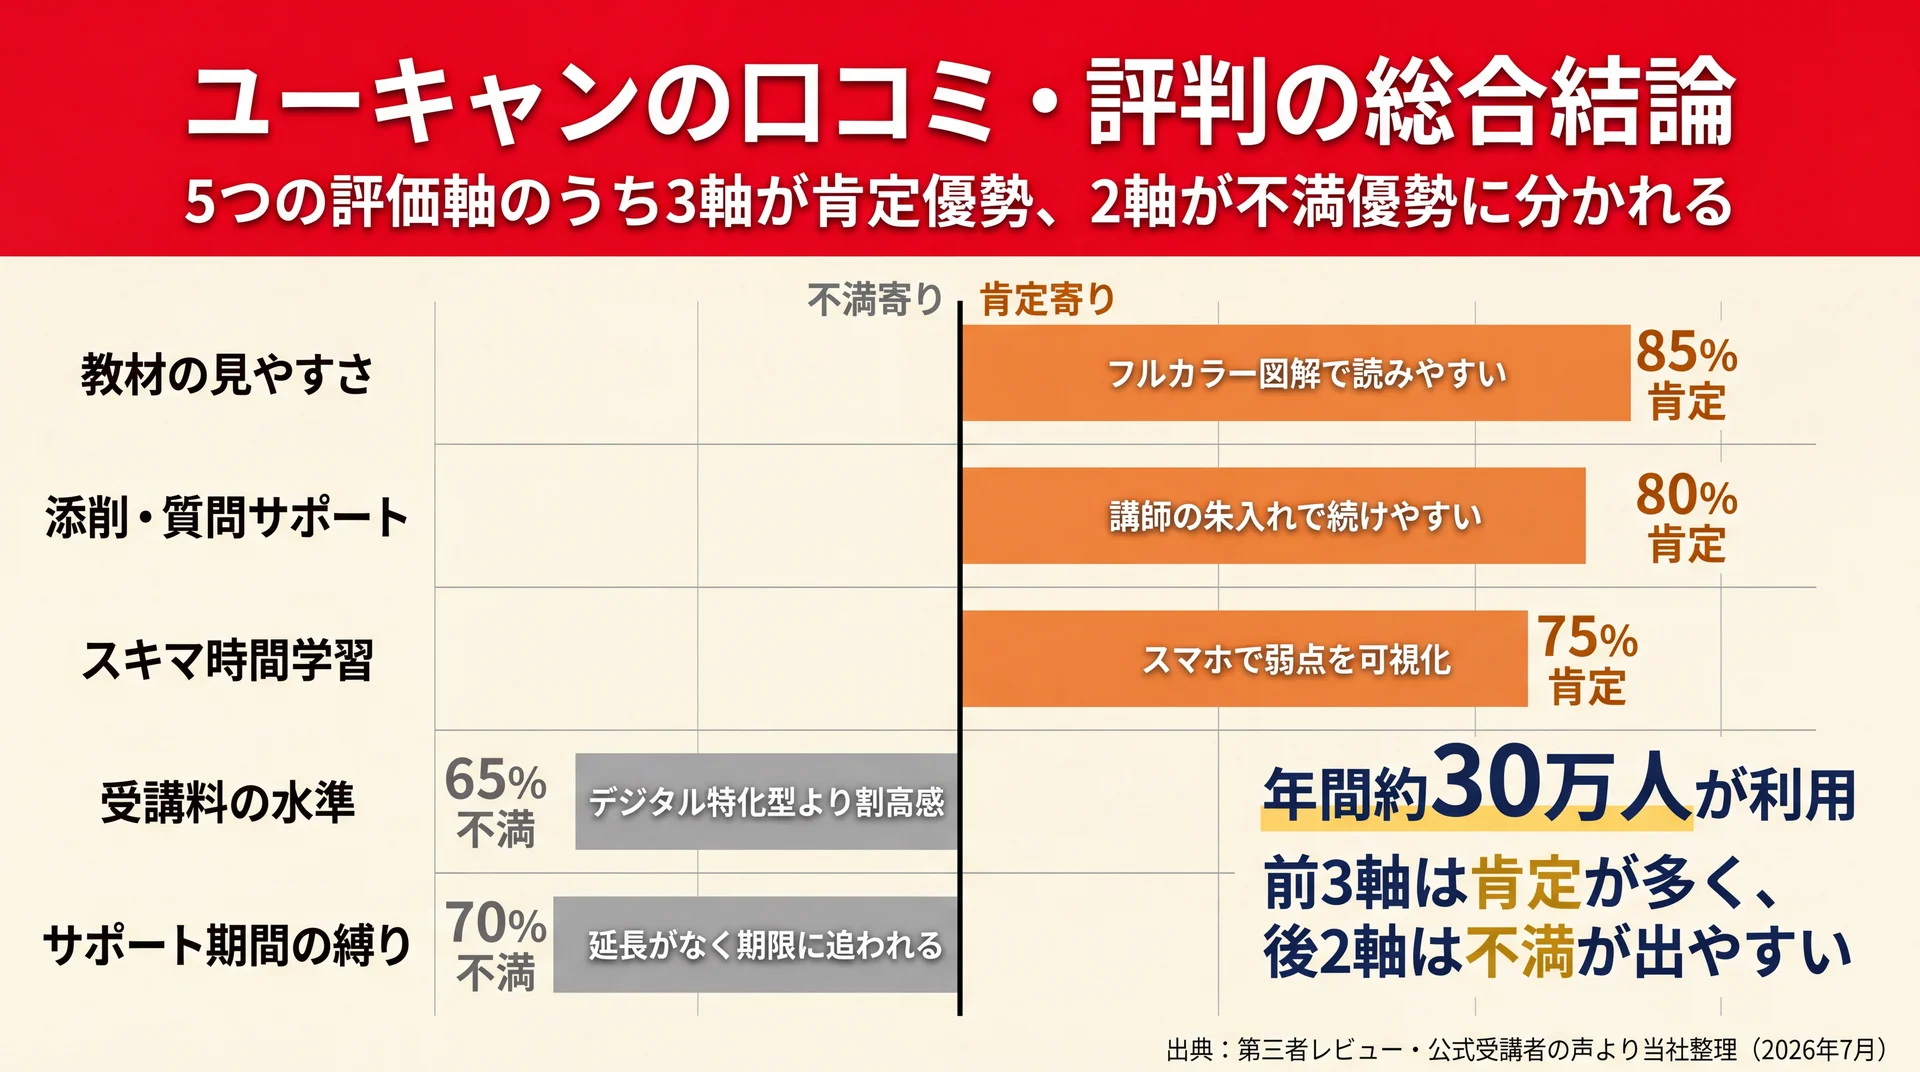
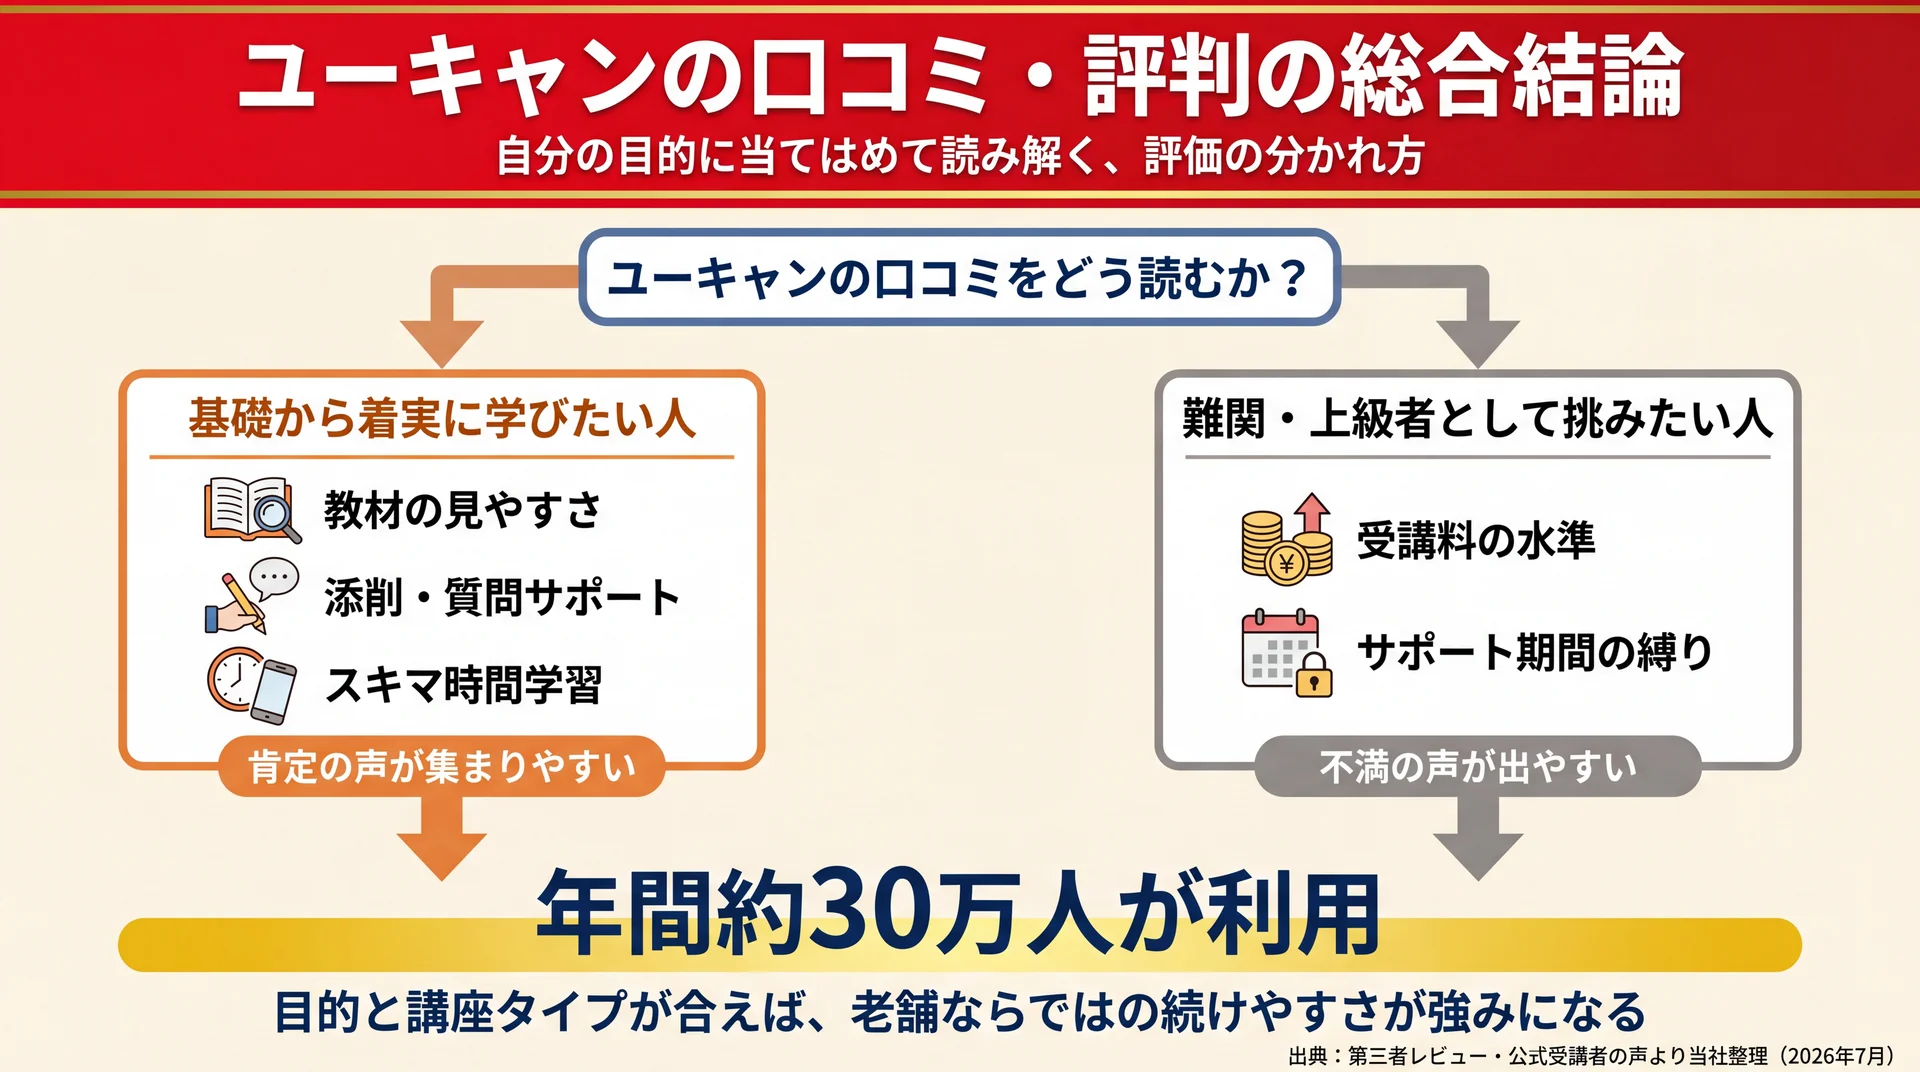
publish: ucan-reviews

diff --git a/2026/07/ucan-reviews.html b/2026/07/ucan-reviews.html
@@ -61,11 +61,11 @@
 <!-- /wp:buttons -->
 </div>
 <!-- /wp:group --><h2 style="font-size:24px; font-weight:600; margin:32px 0 16px; padding-bottom:8px; border-bottom:1px solid #eaeef2; line-height:1.3;">ユーキャンの口コミ・評判の総合結論</h2>
-<p style="margin:14px 0; line-height:1.7;"><img src="https://shun-toda.github.io/html-publish/2026/07/ucan-reviews/h2_01_%E7%B7%8F%E5%90%88%E7%B5%90%E8%AB%96.webp" alt="教材・添削・スキマ学習の3軸が肯定優勢、受講料とサポート期間の2軸が不満優勢と示したユーキャン評判の全体像図" loading="lazy" style="max-width:100%; height:auto; display:block; margin:16px auto; border-radius:6px;" /><br><em>5つの評価軸の肯定/不満の傾きを整理（出典: 第三者レビュー・公式受講者の声を基に当社整理・2026年7月時点）</em></p>
+<p style="margin:14px 0; line-height:1.7;"><img src="https://shun-toda.github.io/html-publish/2026/07/ucan-reviews/h2_01_%E7%B7%8F%E5%90%88%E7%B5%90%E8%AB%96.webp" alt="「基礎から着実に学びたい人」か「難関・上級者として挑みたい人」かで自分に合う使い方を診断する分岐フロー図（年間約30万人が利用）" loading="lazy" style="max-width:100%; height:auto; display:block; margin:16px auto; border-radius:6px;" /><br><em>口コミの賛否を自分の目的に当てはめて判断する自己診断フロー（第三者レビュー・公式受講者の声をもとに当社整理・2026年7月時点）</em></p>
 <p style="margin:14px 0; line-height:1.7;">ユーキャンの口コミは、「教材の分かりやすさと添削で初学者が続けやすい」という肯定と、「料金が割高で質問対応が遅い」という不満に大きく分かれます。年間約30万人が利用する老舗の通信講座で、賛否はあるものの初学者の入りやすさは一貫して評価されています（<a href="https://www.u-can.co.jp/company/business.html" style="color:#0969da; text-decoration:none; border-bottom:1px solid #eaeef2;">ユーキャンの講座事業</a>、2026年7月時点）。まずは評価が分かれる理由と、自分の目的との相性を先に押さえるのが近道です。</p>
 <h3 style="font-size:20px; font-weight:600; margin:24px 0 12px; line-height:1.3;">口コミからわかった評価の全体像</h3>
 <p style="margin:14px 0; line-height:1.7;">第三者のレビューサイトや公式の受講者の声を横断すると、評価の軸はおおむね5つに集約されます。教材の見やすさ、添削・質問サポート、スキマ時間での学習しやすさ、受講料の水準、そしてサポート期間の縛りです。前の3つは肯定が多く、後の2つは不満が出やすい論点です。</p>
-<p style="margin:14px 0; line-height:1.7;">同じ講座でも「基礎から入れて助かった」という声と「基礎に寄りすぎて物足りない」という声が併存します。これは矛盾ではなく、受講者の目的やレベルの違いが評価の差になって表れているだけです。だから口コミを読むときは、星の数の平均よりも「どんな人がどの講座で、何を良い・悪いと言っているか」を見るほうが役立ちます。なお、今回確認できた第三者の口コミは特定のレビューサイトに集中しており、範囲は限られる点は先にお断りしておきます。</p>
+<p style="margin:14px 0; line-height:1.7;">同じ講座でも「基礎から入れて助かった」という声と「基礎に寄りすぎて物足りない」という声が併存します。これは矛盾ではなく、受講者の目的やレベルの違いが評価の差になって表れているだけです。そのため口コミを読むときは、星の数の平均よりも「どんな人がどの講座で、何を良い・悪いと言っているか」を見るほうが役立ちます。なお、今回確認できた口コミは第三者レビューが特定のサイトに集中しており、範囲が限られる点は先にお断りしておきます。</p>
 <h3 style="font-size:20px; font-weight:600; margin:24px 0 12px; line-height:1.3;">論点別に見た「良い声・気になる声」の対照</h3>
 <p style="margin:14px 0; line-height:1.7;">同じ論点でも賞賛と不満が併存する構造を、1つの表に整理しました。</p>
 <div style="overflow-x:auto; margin:18px 0;"><table style="border-collapse:collapse; width:100%; font-size:14px;">
@@ -103,23 +103,20 @@
 </tr>
 </tbody></table></div>
 <p style="margin:14px 0; line-height:1.7;"><em>第三者レビュー掲載の受講者の声をもとに当社整理（2026年7月時点）</em></p>
-<p style="margin:14px 0; line-height:1.7;">この対照表からわかるのは、良い声と気になる声が別々の講座で出ているのではなく、多くが同じ論点の裏表だということです。当社の講座は「合格に必要な範囲へ絞ったフルカラー教材」を設計思想にしているため、初学者には分かりやすさとして働き、難関の上位得点を狙う人には物足りなさとして映ります。だから読者は、自分が「基礎から確実に」を求めるのか「難関で高得点まで」を求めるのかを最初に決めておくと、口コミの受け取り方がぶれません。</p>
+<p style="margin:14px 0; line-height:1.7;">この対照表からわかるのは、良い声と気になる声が別々の講座で出ているのではなく、多くが同じ論点の裏表だということです。当社の講座は「合格に必要な範囲へ絞ったフルカラー教材」を設計思想にしているため、初学者には分かりやすさとして働き、難関の上位得点を狙う人には物足りなさとして映ります。だから、自分が「基礎から確実に」を求めるのか「難関で高得点まで」を求めるのかを最初に決めておくと、口コミの受け取り方がぶれません。</p>
 <h2 style="font-size:24px; font-weight:600; margin:32px 0 16px; padding-bottom:8px; border-bottom:1px solid #eaeef2; line-height:1.3;">良い口コミ・評判でわかったユーキャンの強み</h2>
-<p style="margin:14px 0; line-height:1.7;"><img src="https://shun-toda.github.io/html-publish/2026/07/ucan-reviews/h2_02_%E5%BC%B7%E3%81%BF.webp" alt="教材の分かりやすさ・添削サポート・スキマ時間学習の3つを初学者の完走を支える強みとして整理した図（約140講座・年間約30万人）" loading="lazy" style="max-width:100%; height:auto; display:block; margin:16px auto; border-radius:6px;" /><br><em>初学者の完走を後押しする3つの強みと実績（出典: ユーキャンの講座事業を基に当社作成）</em></p>
+<p style="margin:14px 0; line-height:1.7;"><img src="https://shun-toda.github.io/html-publish/2026/07/ucan-reviews/h2_02_%E5%BC%B7%E3%81%BF.webp" alt="教材の分かりやすさ・添削サポート・スキマ時間学習の3つを初学者の完走を支える強みとして整理した図（約140講座・年間約30万人）" loading="lazy" style="max-width:100%; height:auto; display:block; margin:16px auto; border-radius:6px;" /><br><em>初学者の完走を後押しする3つの強みと実績（当社の事業概要の公開情報をもとに作成）</em></p>
 <p style="margin:14px 0; line-height:1.7;">良い口コミで繰り返し挙がる強みは、「教材の分かりやすさ」「添削・質問サポート」「スキマ時間で学べる講座数の幅」の3点です。とくに資格学習が初めての人ほど、独学のつまずきをこの3点が補う形で評価されています。当社の講座はこの初学者の続けやすさに最適化しており、口コミの傾向とも一致します。</p>
 <h3 style="font-size:20px; font-weight:600; margin:24px 0 12px; line-height:1.3;">教材が分かりやすいという声</h3>
-<p style="margin:14px 0; line-height:1.7;">最も多い肯定は、フルカラーのテキストが図解やイラストで理解を助けるという点です。文章だけでは頭に入りにくい内容も、色分けと図で要点をつかめるため、知識ゼロからでも読み進めやすいという評価が中心です。当社の教材は合格に必要な範囲へ絞って薄く作っており、「分厚い専門書で挫折する」典型を避ける狙いがあります。</p>
-<p style="margin:14px 0; line-height:1.7;">宅建士講座を受けた50代の利用者からは、解説内容にムラがなく充実していて、時間に余裕がなくても隙間時間で基礎を固められたという声が公式サイトに寄せられています（<a href="https://www.u-can.co.jp/%E5%AE%85%E5%BB%BA/voice/" style="color:#0969da; text-decoration:none; border-bottom:1px solid #eaeef2;">公式サイト掲載の利用者の声</a>）。</p>
-<!-- R-EVIDENCE: R-06 --><p style="margin:14px 0; line-height:1.7;">この「基礎を固めやすい」という強みは、裏を返せば応用・難問への物足りなさにもつながります。だから教材の分かりやすさを重視する初学者ほど相性が良く、すでに実力があり上位得点を狙う人は過去問演習の追加を前提にすると失敗しにくくなります。</p>
+<p style="margin:14px 0; line-height:1.7;">多く挙がる肯定は、フルカラーのテキストが図解やイラストで理解を助けるという点です。文章だけでは頭に入りにくい内容も、色分けと図で要点をつかめるため、知識ゼロからでも読み進めやすいという評価が中心です。当社の教材は合格に必要な範囲へ絞って薄く作っており、「分厚い専門書で挫折する」典型を避ける狙いがあります。</p>
+<p style="margin:14px 0; line-height:1.7;">宅建士講座を受けた40代の利用者からは、解説内容にムラがなく充実していて、時間に余裕がなくても隙間時間で基礎を固められたという声が公式サイトに寄せられています（<a href="https://www.u-can.co.jp/%E5%AE%85%E5%BB%BA/voice/" style="color:#0969da; text-decoration:none; border-bottom:1px solid #eaeef2;">公式サイト掲載の利用者の声</a>）。</p>
+<!-- R-EVIDENCE: R-06 --><p style="margin:14px 0; line-height:1.7;">この「基礎を固めやすい」という強みは、裏を返せば応用・難問への物足りなさにもつながります。そのため教材の分かりやすさを重視する初学者ほど相性が良く、すでに実力があり上位得点を狙う人は過去問演習の追加を前提にすると失敗しにくくなります。</p>
 <h3 style="font-size:20px; font-weight:600; margin:24px 0 12px; line-height:1.3;">添削・質問サポートで続けやすいという声</h3>
-<p style="margin:14px 0; line-height:1.7;">2つ目の強みは、添削指導と質問対応です。提出課題に講師が朱を入れて返し、励ましやアドバイスを添えてくれる点が、モチベーション維持につながったという口コミが目立ちます。独学では得られない「見てくれる人がいる」感覚が、途中離脱を防ぐ働きをしています。</p>
-<blockquote style="border-left:4px solid #d0d7de; padding:6px 16px; margin:18px 0; color:#57606a; background:#f6f8fa;">
-<p style="margin:14px 0; line-height:1.7;">講座が多くて迷っても、チャットで丁寧に相談に乗ってくれて分割払いもありがたく、高卒認定は一回で合格できた——相談対応を評価する第三者レビューもあります（<a href="https://minhyo.jp/u-can" style="color:#0969da; text-decoration:none; border-bottom:1px solid #eaeef2;">受講者の声</a>）。</p>
-</blockquote>
-<!-- R-EVIDENCE: R-04 --><p style="margin:14px 0; line-height:1.7;">当社の講座は、この添削と質問サポートを学習の核に据えています。独学で続かなかった人ほど、第三者に見てもらえる仕組みの価値が大きく出ます。だから「一人だと続かない」自覚がある人は、教材の内容以上にサポートの有無で選ぶと後悔しにくくなります。</p>
+<p style="margin:14px 0; line-height:1.7;">2つ目の強みは、添削指導と質問対応です。提出課題に講師が朱を入れて返し、励ましやアドバイスを添えてくれる点が、モチベーション維持につながったという口コミが目立ちます。独学では得られない「見てくれる人がいる」感覚が、途中離脱を防ぐ働きをしています。相談対応が丁寧で続けやすいという評価も、第三者レビューで挙がる傾向です。</p>
+<p style="margin:14px 0; line-height:1.7;">当社の講座は、この添削と質問サポートを学習の核に据えています。独学で続かなかった人ほど、第三者に見てもらえる仕組みの価値が大きく出ます。だから「一人だと続かない」自覚がある人は、教材の内容以上にサポートの有無で選ぶと後悔しにくくなります。</p>
 <h3 style="font-size:20px; font-weight:600; margin:24px 0 12px; line-height:1.3;">スキマ時間学習と講座数の幅</h3>
 <p style="margin:14px 0; line-height:1.7;">3つ目は、スマホでテキストを読み、ミニテストや動画を使える学習環境と、講座ラインナップの幅です。通勤や家事の合間に学習時間や弱点が可視化されるため、忙しい社会人や子育て中の人でも進めやすいという声が集まります。当社は約140の講座を提供し、年間約30万人が利用しています（<a href="https://www.u-can.co.jp/company/business.html" style="color:#0969da; text-decoration:none; border-bottom:1px solid #eaeef2;">ユーキャンの講座事業</a>、2026年7月時点）。</p>
-<p style="margin:14px 0; line-height:1.7;">資格から趣味・実用まで幅広く揃うため、「まず何を学ぶか」から迷う人が目的に合わせて選べるのも強みです。医療事務や登録販売者のような就職に直結する資格から、ボールペン字や食・美容といった暮らしを豊かにする講座まで、同じ土台で選べます。だから、学びたい分野が固まっていない段階でも、複数講座を比べながら決められます。</p>
+<p style="margin:14px 0; line-height:1.7;">資格から趣味・実用まで幅広く揃うため、「まず何を学ぶか」から迷う人が目的に合わせて選べるのも強みです。医療事務や登録販売者のような就職に直結する資格から、ボールペン字や食・美容といった暮らしを豊かにする講座まで、同じ土台で選べます。学びたい分野が固まっていない段階でも、複数講座を比べながら決められます。</p>
 <p style="margin:14px 0; line-height:1.7;">スマホで進められる学習環境も、続けやすさに直結します。通勤中にテキストを読み、昼休みにミニテストを解く、といった細切れの学習でも進捗が記録されるため、机に向かう時間をまとめて取れない人ほど恩恵が大きくなります。</p>
 <h2 style="font-size:24px; font-weight:600; margin:32px 0 16px; padding-bottom:8px; border-bottom:1px solid #eaeef2; line-height:1.3;">気になる口コミ・評判と受講前に知るべき制約</h2>
 <p style="margin:14px 0; line-height:1.7;">気になる口コミは、「受講料が割高」「質問対応が遅くサポート期間に縛りがある」「教材が基礎寄りで物足りない」の3点に集約されます。いずれも講座の欠陥というより、料金設計とサポート設計を理解していれば回避・軽減できる制約です。受講前に条件を押さえておけば、後悔の多くは防げます。</p>
@@ -135,8 +132,8 @@
 <!-- R-EVIDENCE: R-01 --><p style="margin:14px 0; line-height:1.7;">当社の講座は、質問と添削を「サポート期間内の学習」を前提に設計しています。だからこそ、受講前に無理のない学習期間を見積もり、期間内に計画を組むことが添削サポートを活かす条件になります。長期の中断が起こりやすい事情がある人は、開始時期そのものを検討したほうが安全です。</p>
 <h3 style="font-size:20px; font-weight:600; margin:24px 0 12px; line-height:1.3;">教材が基礎寄りで物足りない場合</h3>
 <p style="margin:14px 0; line-height:1.7;">3つ目は、教材が合格範囲に絞られているため、難関試験や高得点狙いには問題の難易度が足りないという声です。基礎の分かりやすさと引き換えに、本番レベルの演習量が少ないと感じる人がいます。</p>
-<p style="margin:14px 0; line-height:1.7;">簿記の学習では、本番向けの問題が基礎レベルで実際の試験に届かず、日商公認の模擬試験を別途購入したという第三者レビューもあります（<a href="https://minhyo.jp/u-can" style="color:#0969da; text-decoration:none; border-bottom:1px solid #eaeef2;">受講者の声</a>）。</p>
-<!-- R-EVIDENCE: R-02 --><p style="margin:14px 0; line-height:1.7;">当社の教材は、初学者が挫折せず一通りを終えられることを優先しています。だから難関資格で上位得点まで目指す場合は、当社教材で基礎を固めたうえで市販の過去問・模試を足す使い方が現実的です。教材だけで完結すると考えると、難関では物足りなさが残ります。</p>
+<p style="margin:14px 0; line-height:1.7;">簿記の学習では、本番向けの問題が基礎レベルで実際の試験に届かず、日商公認の模擬試験を別途購入したという第三者レビューもありました。</p>
+<p style="margin:14px 0; line-height:1.7;">当社の教材は、初学者が挫折せず一通りを終えられることを優先しています。そのため難関資格で上位得点まで目指す場合は、当社教材で基礎を固めたうえで市販の過去問・模試を足す使い方が現実的です。教材だけで完結すると考えると、難関では物足りなさが残ります。</p>
 <h2 style="font-size:24px; font-weight:600; margin:32px 0 16px; padding-bottom:8px; border-bottom:1px solid #eaeef2; line-height:1.3;">「やめた方がいい・後悔」の声は何が原因か</h2>
 <p style="margin:14px 0; line-height:1.7;">「やめた方がいい」「後悔した」という声の多くは、講座内容そのものの欠陥ではなく、「サポート期間内に終わらず中断」「基礎教材と難関試験のギャップ」「実務系で前提知識が要る」の3つの原因に分けられます。原因を切り分ければ、自分に当てはまるかを事前に判断でき、対処もできます。ここが評判の核心です。</p>
 <h3 style="font-size:20px; font-weight:600; margin:24px 0 12px; line-height:1.3;">原因1: サポート期間内に終わらず中断した</h3>
@@ -144,10 +141,10 @@
 <p style="margin:14px 0; line-height:1.7;">これは講座の質の問題ではなく、学習計画とサポート設計のミスマッチです。当社は添削とスケジュール設計で継続を支える一方、期間の設定は明確にしています。だから、まとまった学習時間を確保できる時期に始め、余裕を持った期間の講座を選ぶことで、この原因は大きく減らせます。</p>
 <h3 style="font-size:20px; font-weight:600; margin:24px 0 12px; line-height:1.3;">原因2: 基礎教材と難関試験のギャップ</h3>
 <p style="margin:14px 0; line-height:1.7;">2つ目は、基礎に最適化された教材だけで難関試験に挑み、本番の難易度差に直面するパターンです。簿記の例のように「テキストは分かりやすいのに本試験は解けなかった」という声は、教材の性格と試験難易度のギャップから生まれます。</p>
-<p style="margin:14px 0; line-height:1.7;">当社の教材は初学者の完走を優先しているため、難関で高得点を狙うなら過去問・模試の追加が前提になります。だから、難易度の高い資格を受ける人は「ユーキャンで基礎、演習は別で補う」と最初から役割分担を決めておくと、後悔を避けられます。</p>
+<p style="margin:14px 0; line-height:1.7;">当社の教材は初学者の完走を優先しているため、難関で高得点を狙うなら過去問・模試の追加が前提になります。難易度の高い資格を受ける人は「ユーキャンで基礎、演習は別で補う」と最初から役割分担を決めておくと、後悔を避けられます。</p>
 <h3 style="font-size:20px; font-weight:600; margin:24px 0 12px; line-height:1.3;">原因3: 実務系で前提知識が要る</h3>
-<p style="margin:14px 0; line-height:1.7;">3つ目は、電気工事士のような実務系資格で、現場の道具や作業のイメージがないまま始めて質問すらできず止まるパターンです。第三者レビューでも、普段から仕事で携わっている人には勧められるが、まったくの初学者には向きにくいという指摘があります（<a href="https://minhyo.jp/u-can" style="color:#0969da; text-decoration:none; border-bottom:1px solid #eaeef2;">受講者の声</a>）。</p>
-<p style="margin:14px 0; line-height:1.7;">こうした資格は、通信教材だけで前提知識を補うのが難しい領域です。だから実務系に挑む初学者は、動画教材や現場経験の補完をあわせて計画すると、つまずきを減らせます。</p>
+<p style="margin:14px 0; line-height:1.7;">3つ目は、電気工事士のような実務系資格で、現場の道具や作業のイメージがないまま始めて質問すらできず止まるパターンです。第三者レビューでも、普段から仕事で携わっている人には勧められるが、まったくの初学者には向きにくいという指摘がありました。</p>
+<p style="margin:14px 0; line-height:1.7;">こうした資格は、通信教材だけで前提知識を補うのが難しい領域です。実務系に挑む初学者は、動画教材や現場経験の補完をあわせて計画すると、つまずきを減らせます。</p>
 <p style="margin:14px 0; line-height:1.7;"><strong>要点:</strong> 「やめた方がいい」の多くは中断・難易度ギャップ・前提知識の3原因に集約され、いずれも開始時期と補助教材の準備で対処できます。</p>
 <!-- wp:group {"style":{"border":{"radius":"16px","color":"#FAE3D8","style":"solid","width":"1px"},"spacing":{"padding":{"top":"24px","right":"20px","bottom":"24px","left":"20px"}}},"layout":{"type":"constrained"}} -->
 <div class="wp-block-group has-border-color" style="border-color:#FAE3D8;border-style:solid;border-width:1px;border-radius:16px;padding-top:24px;padding-right:20px;padding-bottom:24px;padding-left:20px">
@@ -164,7 +161,7 @@
 <!-- /wp:buttons -->
 </div>
 <!-- /wp:group --><h2 style="font-size:24px; font-weight:600; margin:32px 0 16px; padding-bottom:8px; border-bottom:1px solid #eaeef2; line-height:1.3;">講座タイプで割れるユーキャンの評価</h2>
-<p style="margin:14px 0; line-height:1.7;"><img src="https://shun-toda.github.io/html-publish/2026/07/ucan-reviews/h2_03_%E8%AC%9B%E5%BA%A7%E3%82%BF%E3%82%A4%E3%83%97_%E8%A9%95%E4%BE%A1.webp" alt="難易度と満足度の2軸で講座タイプを配置し、趣味・初学者資格は高評価、難関・実務系は補助教材前提と示したポジショニングマップ" loading="lazy" style="max-width:100%; height:auto; display:block; margin:16px auto; border-radius:6px;" /><br><em>講座タイプを難易度×単独満足度で配置し向き不向きを可視化（出典: 公式合格実績2015〜2024・第三者レビューを基に当社整理）</em></p>
+<p style="margin:14px 0; line-height:1.7;"><img src="https://shun-toda.github.io/html-publish/2026/07/ucan-reviews/h2_03_%E8%AC%9B%E5%BA%A7%E3%82%BF%E3%82%A4%E3%83%97_%E8%A9%95%E4%BE%A1.webp" alt="難易度と満足度の2軸で講座タイプを配置し、趣味・初学者資格は高評価、難関・実務系は補助教材前提と示したポジショニングマップ" loading="lazy" style="max-width:100%; height:auto; display:block; margin:16px auto; border-radius:6px;" /><br><em>講座タイプを難易度×単独満足度で配置し向き不向きを可視化（公式合格実績2015〜2024・第三者レビューをもとに当社整理）</em></p>
 <p style="margin:14px 0; line-height:1.7;">ユーキャンの口コミは、講座タイプによって評価が明確に割れます。趣味・実用や初学者向けの資格では「分かりやすい・続けられた」という高評価が集まりやすく、難関の国家資格や実務者の専門学習では「物足りない」という声が出やすい傾向です。この割れ方を知ると、平均評価に惑わされず自分向けかを判断できます。</p>
 <h3 style="font-size:20px; font-weight:600; margin:24px 0 12px; line-height:1.3;">講座タイプ×評価傾向のマトリクス</h3>
 <p style="margin:14px 0; line-height:1.7;">確認できた口コミを講座タイプ別に整理すると、評価の傾向がはっきり分かれます。</p>
@@ -198,15 +195,15 @@
 </tr>
 </tbody></table></div>
 <p style="margin:14px 0; line-height:1.7;"><em>第三者レビュー掲載の受講者の声をもとに当社整理（2026年7月時点）</em></p>
-<p style="margin:14px 0; line-height:1.7;">このマトリクスが示すのは、ユーキャンの評価は「良いか悪いか」ではなく「どの講座タイプで、どんな目的の人が使ったか」で決まるということです。当社の講座は初学者の完走に最適化しているため、上の2タイプで満足度が高く、下の2タイプでは使い方の工夫が要ります。だから読者は、自分が受けたい講座がどのタイプかを先に当てはめてから口コミを読むと、評価のブレに振り回されません。</p>
+<p style="margin:14px 0; line-height:1.7;">このマトリクスが示すのは、ユーキャンの評価は「良いか悪いか」ではなく「どの講座タイプで、どんな目的の人が使ったか」で決まるということです。当社の講座は初学者の完走に最適化しているため、上の2タイプで満足度が高く、下の2タイプでは使い方の工夫が要ります。だから、自分が受けたい講座がどのタイプかを先に当てはめてから口コミを読むと、評価のブレに振り回されません。</p>
 <h3 style="font-size:20px; font-weight:600; margin:24px 0 12px; line-height:1.3;">高評価が集まりやすい講座タイプ</h3>
 <p style="margin:14px 0; line-height:1.7;">趣味・実用や初学者向け資格では、教材の分かりやすさと添削の後押しがそのまま満足度につながります。楽しみながら続けられた、知識ゼロでも合格できた、という声が中心で、当社の設計思想と口コミの傾向が最も一致する領域です。</p>
 <p style="margin:14px 0; line-height:1.7;">宅建士講座では、当社は過去10年間で12,974名の合格者を輩出しています（<a href="https://www.u-can.co.jp/%E5%AE%85%E5%BB%BA/voice/" style="color:#0969da; text-decoration:none; border-bottom:1px solid #eaeef2;">公式サイト掲載の合格実績</a>、2015〜2024年試験）。基礎から着実に積み上げたい初学者にとって、この続けやすさは大きな価値になります。</p>
-<p style="margin:14px 0; line-height:1.7;">たとえば公式の合格体験談では、不動産の仕事に興味を持ったが未経験だった人や、中古住宅の購入をきっかけに宅建へ関心を持った人が、隙間時間で基礎を固めて合格に至っています。共通するのは「専門知識ゼロから、無理なく続けられた」という点です。趣味・実用の講座でも同じ構図で、楽しみながら手を動かすうちに一通りを終えられた、という満足が中心になります。だから、まず完走して成功体験を得たい人には、このタイプが最も相性の良い入り口になります。</p>
+<p style="margin:14px 0; line-height:1.7;">たとえば公式の合格体験談では、時間に余裕のない社会人が隙間時間で基礎を固めて合格に至った例や、一度は合格点にわずかに届かず不合格になったものの通信教育で再挑戦して合格できた例が紹介されています。共通するのは、専門知識がない状態から無理なく続けられたという点です。趣味・実用の講座でも同じ構図で、楽しみながら手を動かすうちに一通りを終えられた、という満足が中心になります。まず完走して成功体験を得たい人には、このタイプが最も相性の良い入り口になります。</p>
 <h3 style="font-size:20px; font-weight:600; margin:24px 0 12px; line-height:1.3;">物足りなさが出やすい講座タイプ</h3>
 <p style="margin:14px 0; line-height:1.7;">一方、難関国家資格で高得点を狙う人や、実務系で前提知識がない初学者では、教材だけでは足りないと感じやすくなります。基礎の分かりやすさと、難関の演習量・実務イメージの補完は別の課題だからです。</p>
 <p style="margin:14px 0; line-height:1.7;">簿記の上位級やTOEICの高スコア帯では、「テキストは分かりやすいのに本番の問題が解けない」という演習量への不満が出やすくなります。TOEICでは内容や学習時間の可視化は評価されつつ、実力診断テストが1回きりで繰り返し使えない、コース間で同じ教材が重複していた、といった細かな指摘もありました。電気工事士のような実務系では、道具や配線のイメージがないと質問すら組み立てられず、前提知識のある人向けという声につながります。</p>
-<p style="margin:14px 0; line-height:1.7;">こうしたタイプでは、当社教材で基礎を固めつつ、過去問・模試や動画などで演習と実感を足す使い方が現実的です。だから難関・実務系を狙う人は、教材を「土台」と割り切り、補助教材の計画をセットで立てておくと満足度が上がります。</p>
+<p style="margin:14px 0; line-height:1.7;">こうしたタイプでは、当社教材で基礎を固めつつ、過去問・模試や動画などで演習と実感を足す使い方が現実的です。難関・実務系を狙う人は、教材を「土台」と割り切り、補助教材の計画をセットで立てておくと満足度が上がります。</p>
 <p style="margin:14px 0; line-height:1.7;"><strong>要点:</strong> ユーキャンの評価は講座タイプで割れ、初学・趣味は高評価、難関・実務は補助教材との併用が前提になります。</p>
 <h2 style="font-size:24px; font-weight:600; margin:32px 0 16px; padding-bottom:8px; border-bottom:1px solid #eaeef2; line-height:1.3;">料金と教育訓練給付でどこまで安くなるか</h2>
 <p style="margin:14px 0; line-height:1.7;"><img src="https://shun-toda.github.io/html-publish/2026/07/ucan-reviews/h2_04_%E6%96%99%E9%87%91_%E7%B5%A6%E4%BB%98.webp" alt="分割払い・教育訓練給付最大20%上限10万円・割引の3手段で受講料の実質負担を下げる方法を整理した図" loading="lazy" style="max-width:100%; height:auto; display:block; margin:16px auto; border-radius:6px;" /><br><em>給付・分割・割引の3手段で実質負担を下げる（出典: 厚生労働省 一般教育訓練給付）</em></p>
@@ -215,16 +212,16 @@
 <p style="margin:14px 0; line-height:1.7;">資格系講座の受講料は数万円台からが中心で、教材の郵送や添削のコストを含みます。まとまった支払いが負担になる場合は、分割払いで月々の負担を平準化できます。当社は多くの講座で分割に対応しており、初期費用のハードルを下げています。</p>
 <p style="margin:14px 0; line-height:1.7;">低価格のデジタル特化型と単純な額面で比べると高く見えますが、フルカラー教材と添削という中身が価格に含まれています。だから、価格を見るときは「何が含まれた価格か」までそろえて比較するのが公平です。</p>
 <h3 style="font-size:20px; font-weight:600; margin:24px 0 12px; line-height:1.3;">教育訓練給付で最大20%・上限10万円</h3>
-<p style="margin:14px 0; line-height:1.7;">対象講座を修了し要件を満たすと、一般教育訓練給付として受講料の20%（上限10万円）が支給されます（<a href="https://www.mhlw.go.jp/stf/seisakunitsuite/bunya/koyou_roudou/jinzaikaihatsu/kyouiku.html" style="color:#0969da; text-decoration:none; border-bottom:1px solid #eaeef2;">厚生労働省</a>、2026年7月時点）。当社は給付対象講座を多く用意しており、対象なら実質負担が下がります。</p>
-<p style="margin:14px 0; line-height:1.7;">ただし対象講座や支給要件は制度側で定められており、すべての講座が対象ではありません。だから、気になる講座が給付対象かどうかは、申込前に資料で確認しておくと想定外を避けられます。</p>
+<p style="margin:14px 0; line-height:1.7;">対象講座を修了し要件を満たすと、一般教育訓練給付として受講料の20%（上限10万円）が支給されます（厚生労働省の教育訓練給付制度、2026年7月時点）。当社は給付対象講座を多く用意しており、対象なら実質負担が下がります。</p>
+<p style="margin:14px 0; line-height:1.7;">ただし対象講座や支給要件は制度側で定められており、すべての講座が対象ではありません。気になる講座が給付対象かどうかは、申込前に資料で確認しておくと想定外を避けられます。</p>
 <h3 style="font-size:20px; font-weight:600; margin:24px 0 12px; line-height:1.3;">割引・キャンペーンで安くする際の注意点</h3>
 <p style="margin:14px 0; line-height:1.7;">口コミには「もっと安く受講したい」という関心から、割引やキャンペーンを探す声もあります。時期による割引や複数講座のセット、資料請求時の案内など、負担を抑える手段はいくつか用意されています。ただし、割引の有無や内容は講座・時期によって変わるため、常に使えるとは限りません。</p>
-<p style="margin:14px 0; line-height:1.7;">安さだけを優先して目的に合わない講座を選ぶと、結局続かず費用が無駄になりかねません。当社は、価格を下げる工夫よりも「続けられて資格につながること」を優先してほしいと考えています。だから、まず自分の目的に合う講座を絞り、そのうえで給付対象か・割引時期かを確認する順番で選ぶと、失敗が起きにくくなります。</p>
+<p style="margin:14px 0; line-height:1.7;">安さだけを優先して目的に合わない講座を選ぶと、結局続かず費用が無駄になりかねません。当社は、価格を下げる工夫よりも「続けられて資格につながること」を優先してほしいと考えています。まず自分の目的に合う講座を絞り、そのうえで給付対象か・割引時期かを確認する順番で選ぶと、失敗が起きにくくなります。</p>
 <h2 style="font-size:24px; font-weight:600; margin:32px 0 16px; padding-bottom:8px; border-bottom:1px solid #eaeef2; line-height:1.3;">口コミからわかる向いている人・向かない人</h2>
 <p style="margin:14px 0; line-height:1.7;">口コミを総合すると、ユーキャンは「独学が続かない初学者」「基礎から着実に学びたい人」「スキマ時間で進めたい忙しい人」に向き、「難関で独学向きの上級者」「最安を最優先する人」には物足りなさが残ります。自分の目的とレベルを当てはめれば、受講の判断はぶれません。</p>
 <h3 style="font-size:20px; font-weight:600; margin:24px 0 12px; line-height:1.3;">向いている人</h3>
 <p style="margin:14px 0; line-height:1.7;">資格学習が初めてで、何から手を付けるか分からない人ほど、フルカラー教材と添削の後押しが効きます。一人だと続かない自覚がある人、通勤や家事の合間に少しずつ進めたい人にも向きます。趣味・実用や初学者向け資格を、楽しみながら完走したい人は満足度が高い層です。</p>
-<p style="margin:14px 0; line-height:1.7;">老舗の安心感やブランドで失敗を避けたい人にも合います。過去に市販のテキストや無料の動画で独学を試して途中でやめた経験がある人は、添削という「見てくれる人がいる」仕組みが継続の支えになりやすい層です。出産・育児で離職し復職や在宅ワークに向けて資格を取りたい人、定年前後にセカンドキャリアの学び直しをしたい人も、スキマ時間で進められる設計と相性が良いといえます。だから「まず一歩を踏み出して続けたい」という動機の人は、有力な選択肢になります。</p>
+<p style="margin:14px 0; line-height:1.7;">老舗の安心感やブランドで失敗を避けたい人にも合います。過去に市販のテキストや無料の動画で独学を試して途中でやめた経験がある人は、添削という「見てくれる人がいる」仕組みが継続の支えになりやすい層です。出産・育児で離職し復職や在宅ワークに向けて資格を取りたい人、定年前後にセカンドキャリアの学び直しをしたい人も、スキマ時間で進められる設計と相性が良いといえます。「まず一歩を踏み出して続けたい」という動機の人は、有力な選択肢になります。</p>
 <h3 style="font-size:20px; font-weight:600; margin:24px 0 12px; line-height:1.3;">向かない人・他の手段も検討したい人</h3>
 <p style="margin:14px 0; line-height:1.7;">一方、難関資格で上位得点を独学ペースで狙える上級者は、演習量の物足りなさを感じやすくなります。とにかく受講料の最安を優先する人も、デジタル特化型のほうが合う場合があります。実務系で前提知識がまったくない状態の人は、教材だけでの独走は難しい領域です。</p>
 <p style="margin:14px 0; line-height:1.7;">こうした人は、当社教材を基礎の土台として使い、演習や実務補完を別に組む前提なら十分に活きます。だから「向かない」というより「使い方を変える必要がある」と捉えるのが実態に近いです。</p>